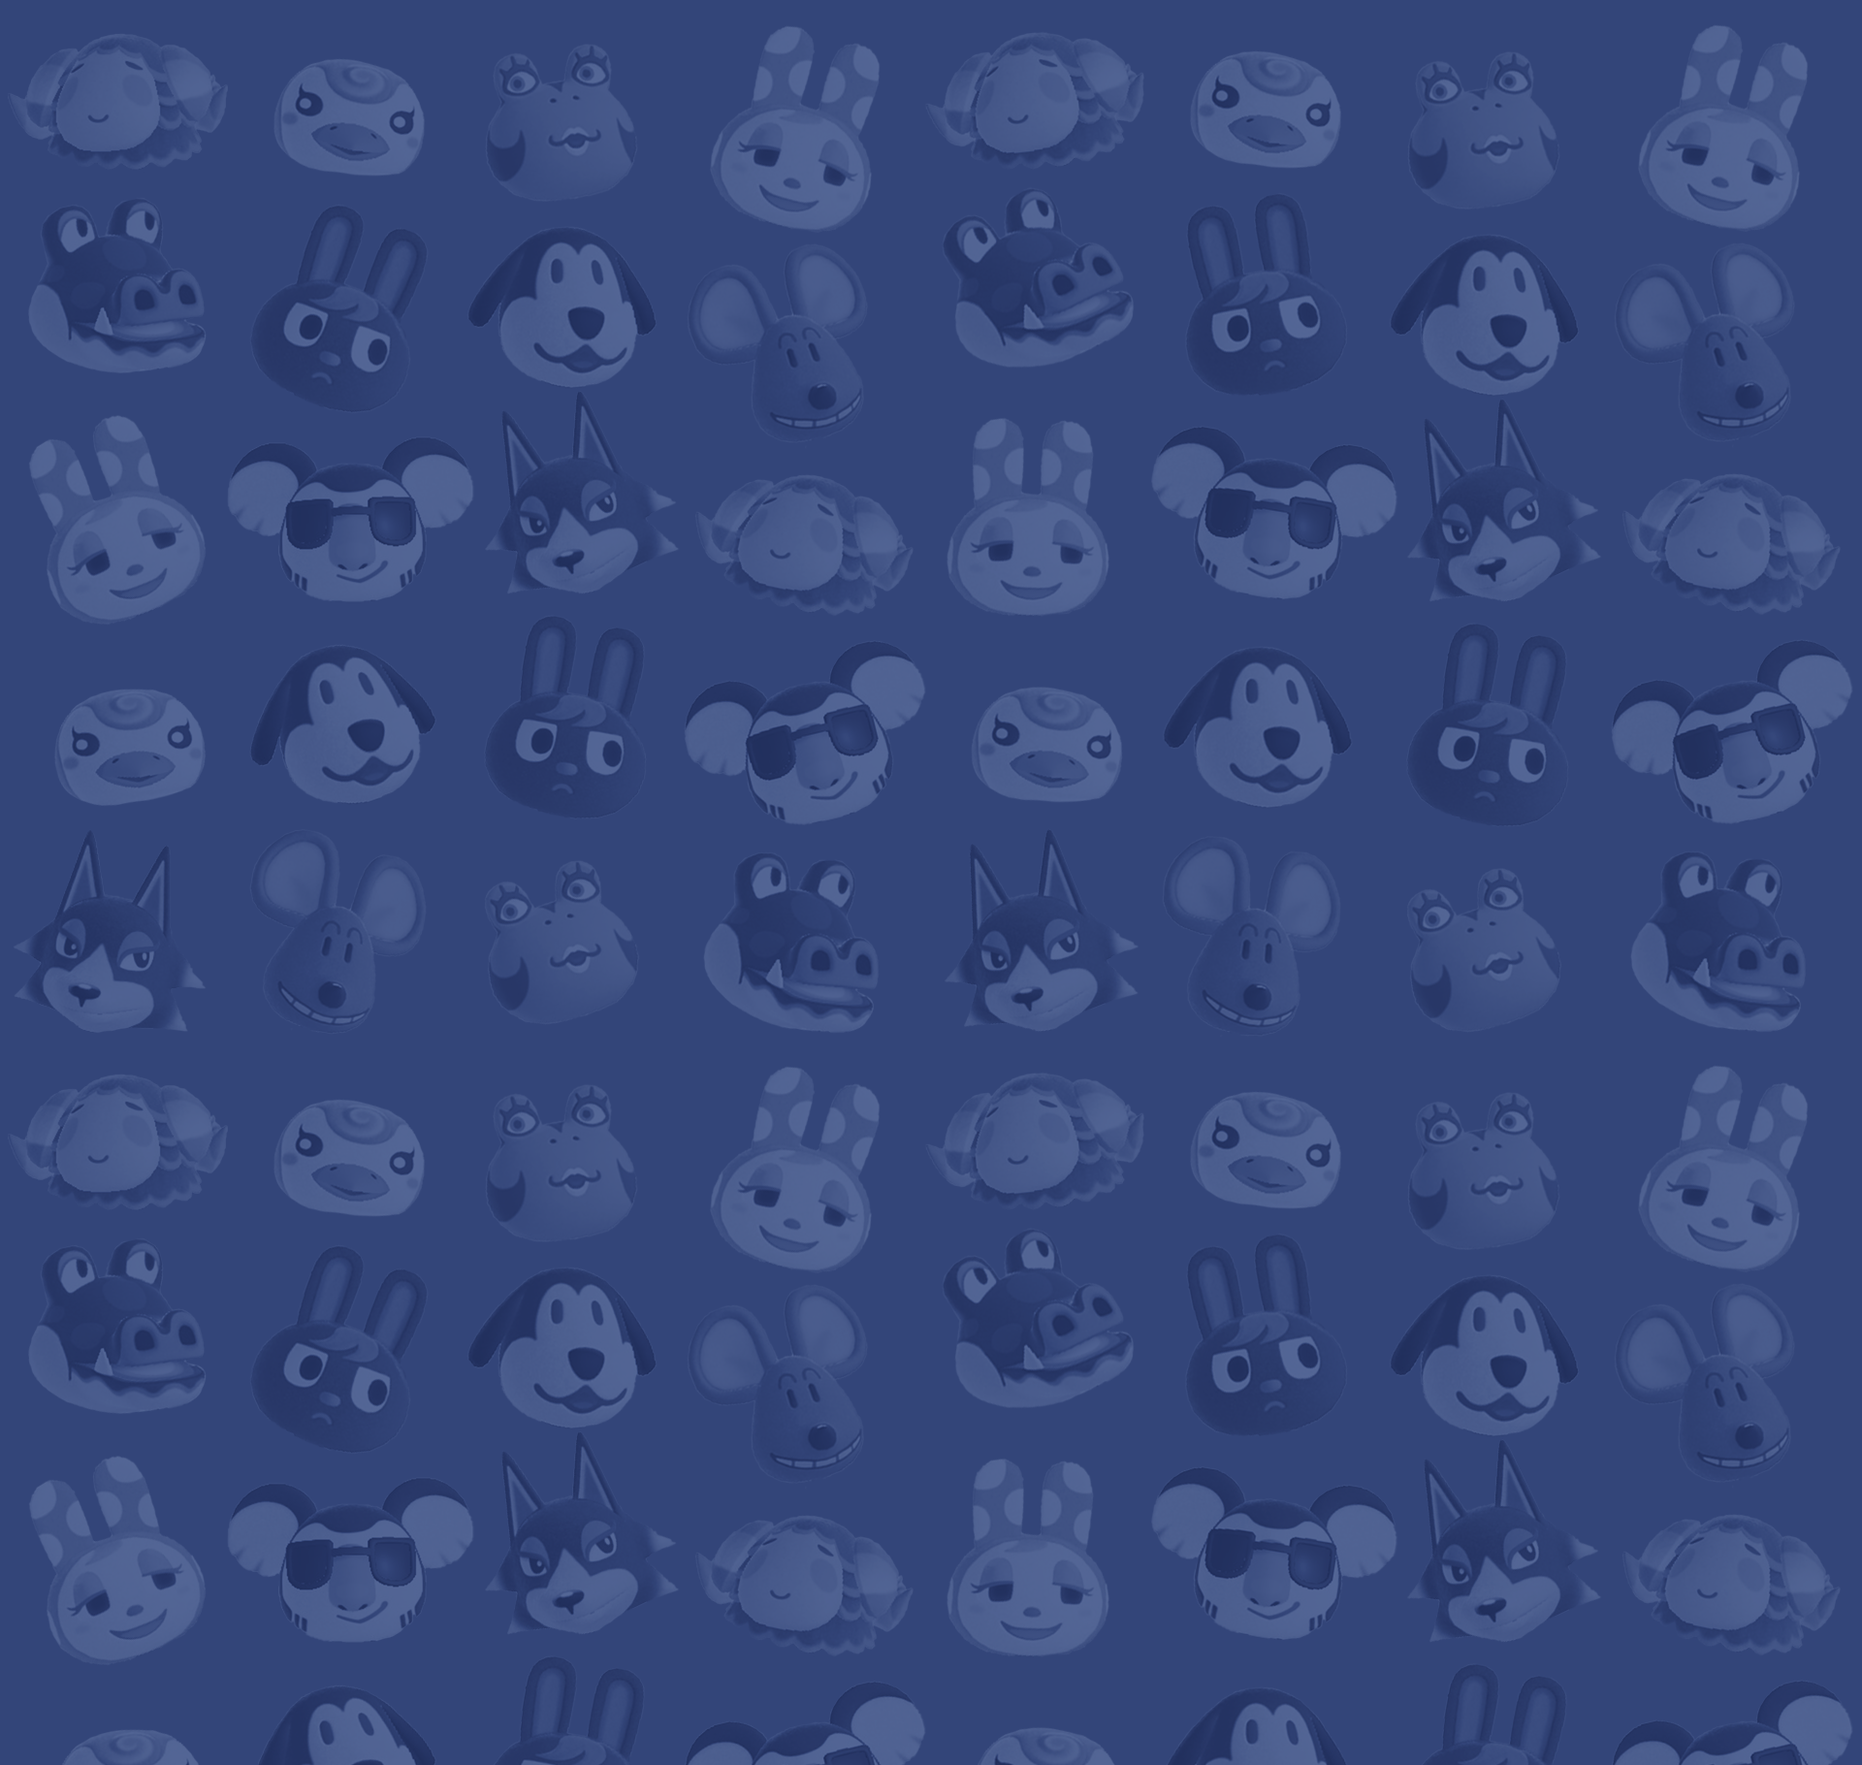
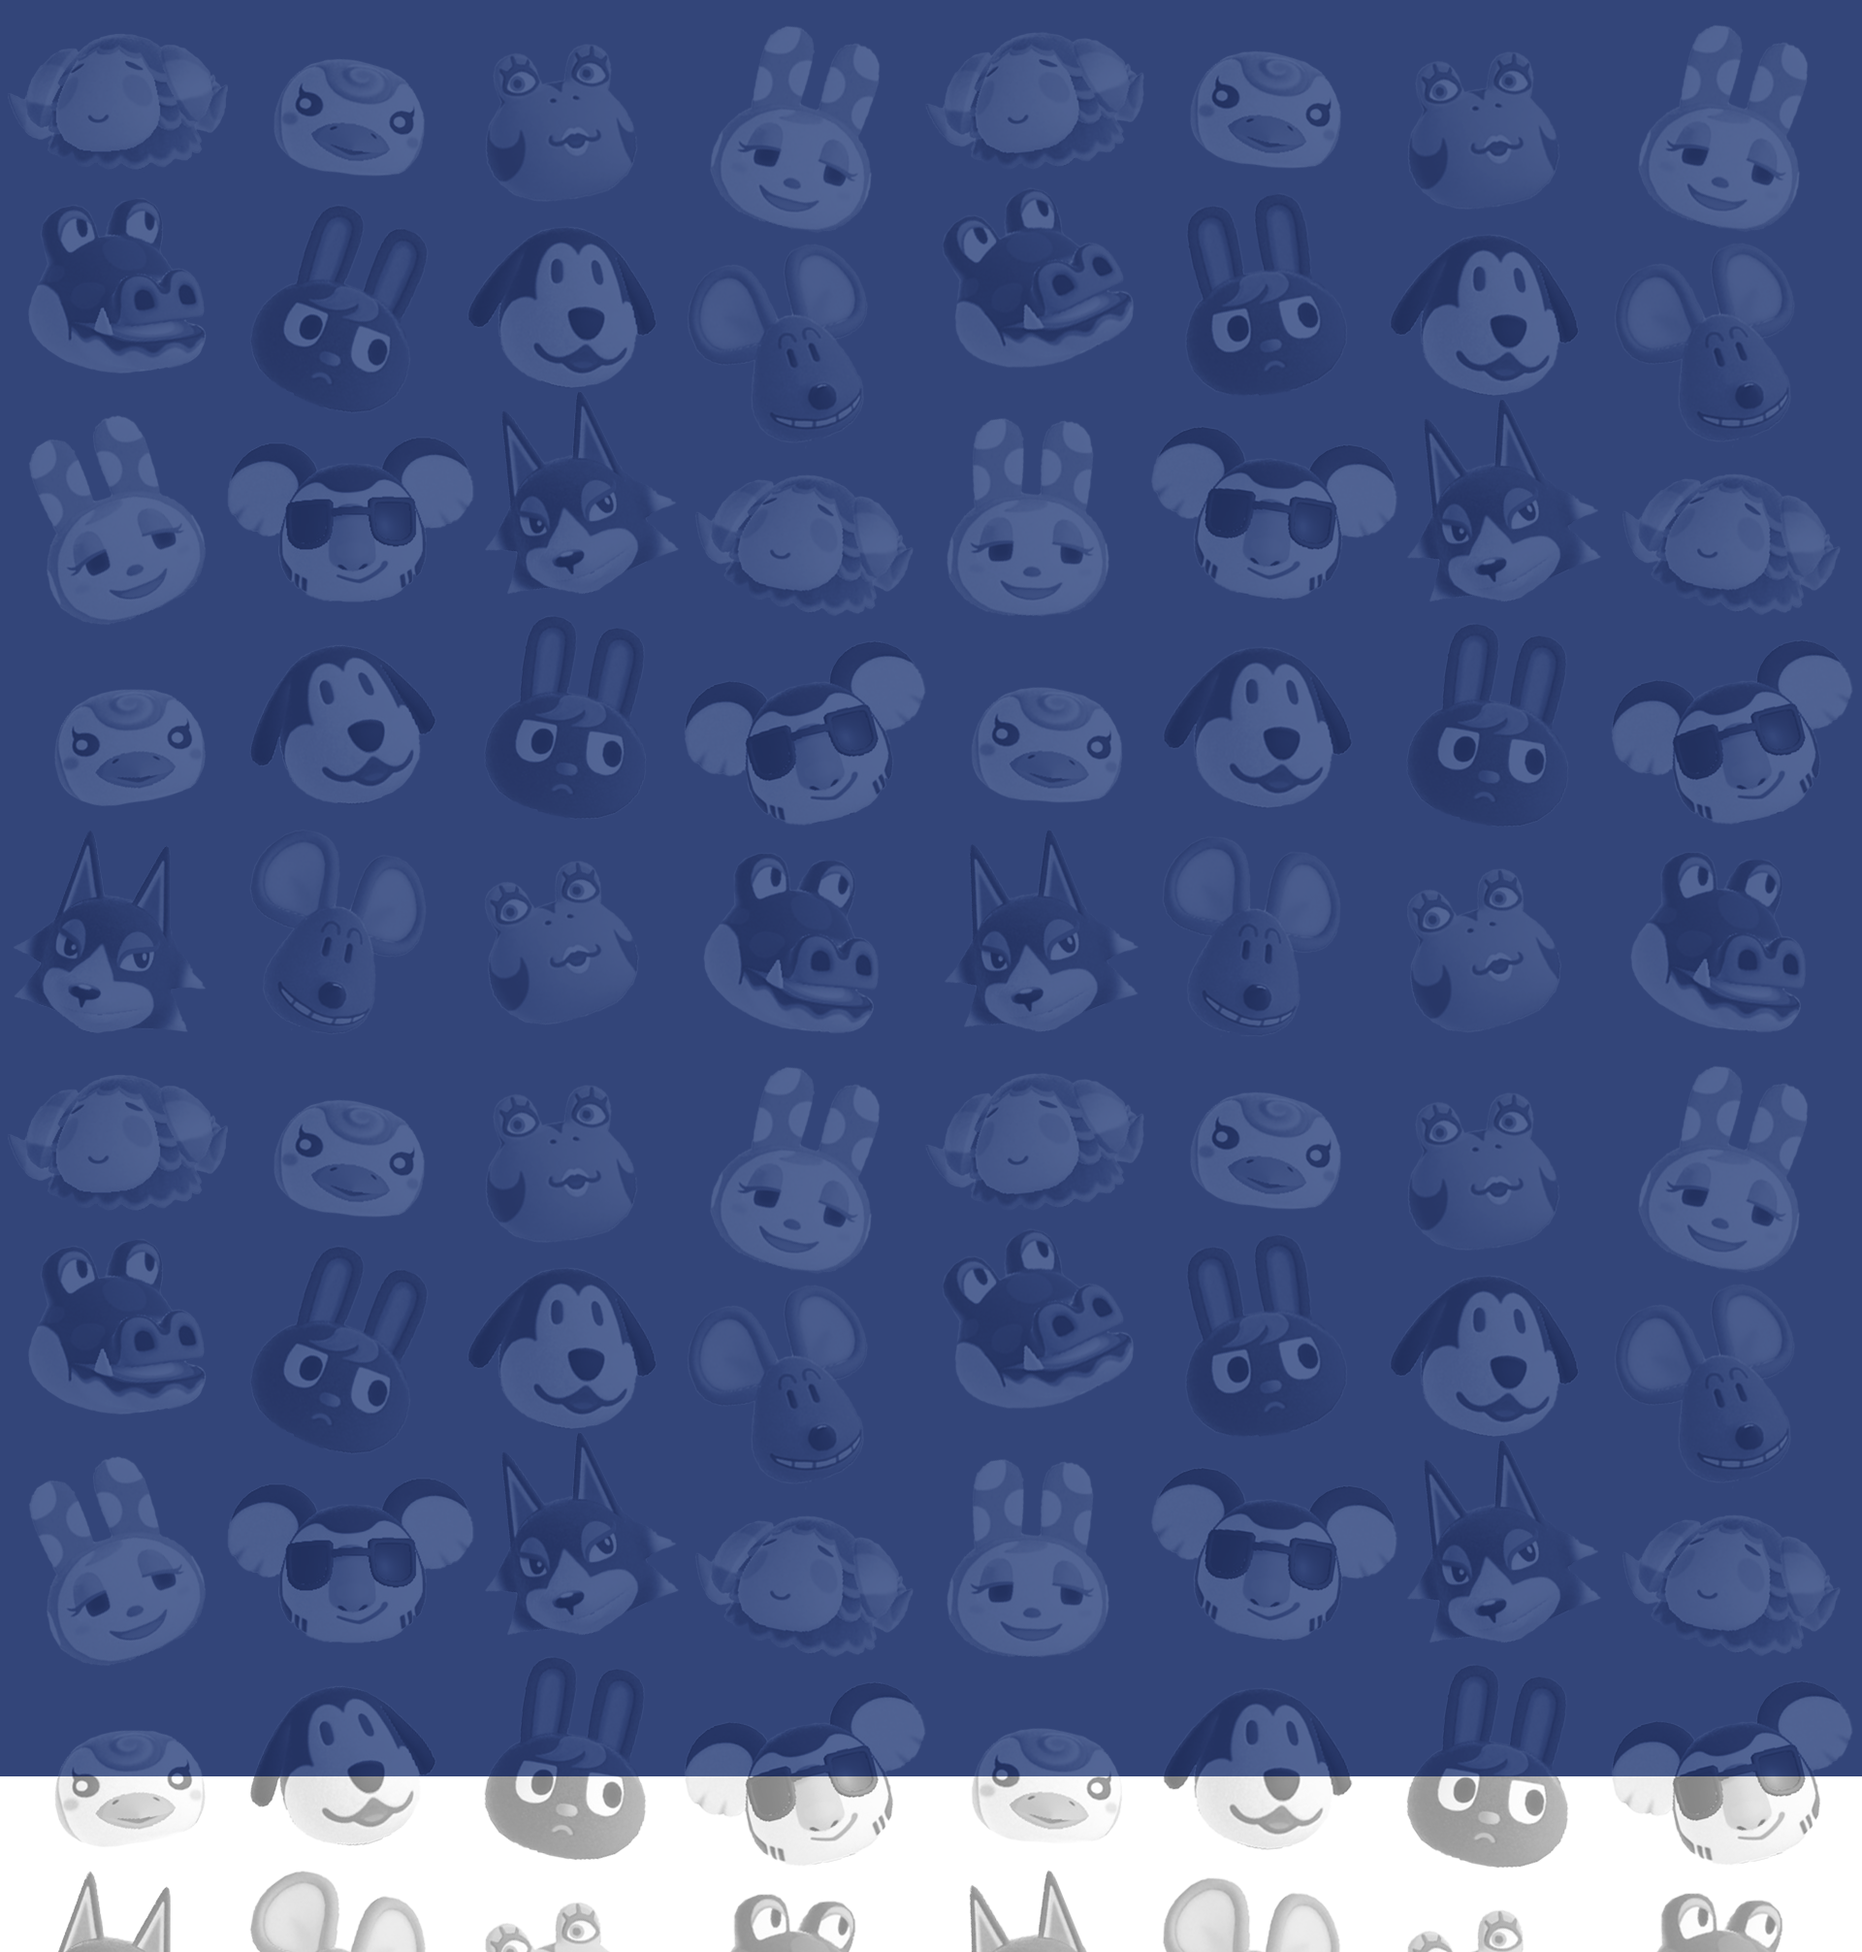
Fixed footer and meta tag

diff --git a/index.html b/index.html
@@ -1,7 +1,7 @@
 <!DOCTYPE html>
 <html lang="en" dir="ltr">
   <head>
-    <meta name="viewport" content="width=device-width, initial scale=1.0">
+    <meta name="viewport" content="width=device-width, initial-scale=1.0">
     <link rel="stylesheet" href="style.css">
     <title></title>
   </head>
@@ -15,7 +15,7 @@
     <div class="container">
       <div class="main">
         <img src="images/mainwhite.png" alt="">
-        <img src="images/greengrad.png" class="trans">
+        <img src="images/greengrad.png" >
       </div>
       <div class="meet">
         <img src="images/meetback.png" class="meetback">
@@ -36,10 +36,7 @@
       <div class="blue">
         <img src="images/island.png">
         <img src="images/blueback.png" class="blue">
+        <img src="images/footer.png" class="footer">
       </div>
-      <div class="footer">
-        <img src="images/footer.png">
-      </div>
-    </div>
-  </body>
+        </body>
 </html>

diff --git a/style.css b/style.css
@@ -34,7 +34,7 @@ ul li a:hover {
 .nookinc {
   padding: 30px;
 }
-.trans {
+.main {
   margin-top: -10px;
 }
 .meet {
@@ -69,4 +69,10 @@ ul li a:hover {
 }
 .blue {
   margin-top: -10px;
+  position: relative;
+}
+.footer{
+  position: absolute;
+  bottom: 0px;
+  left: 0px;
 }
